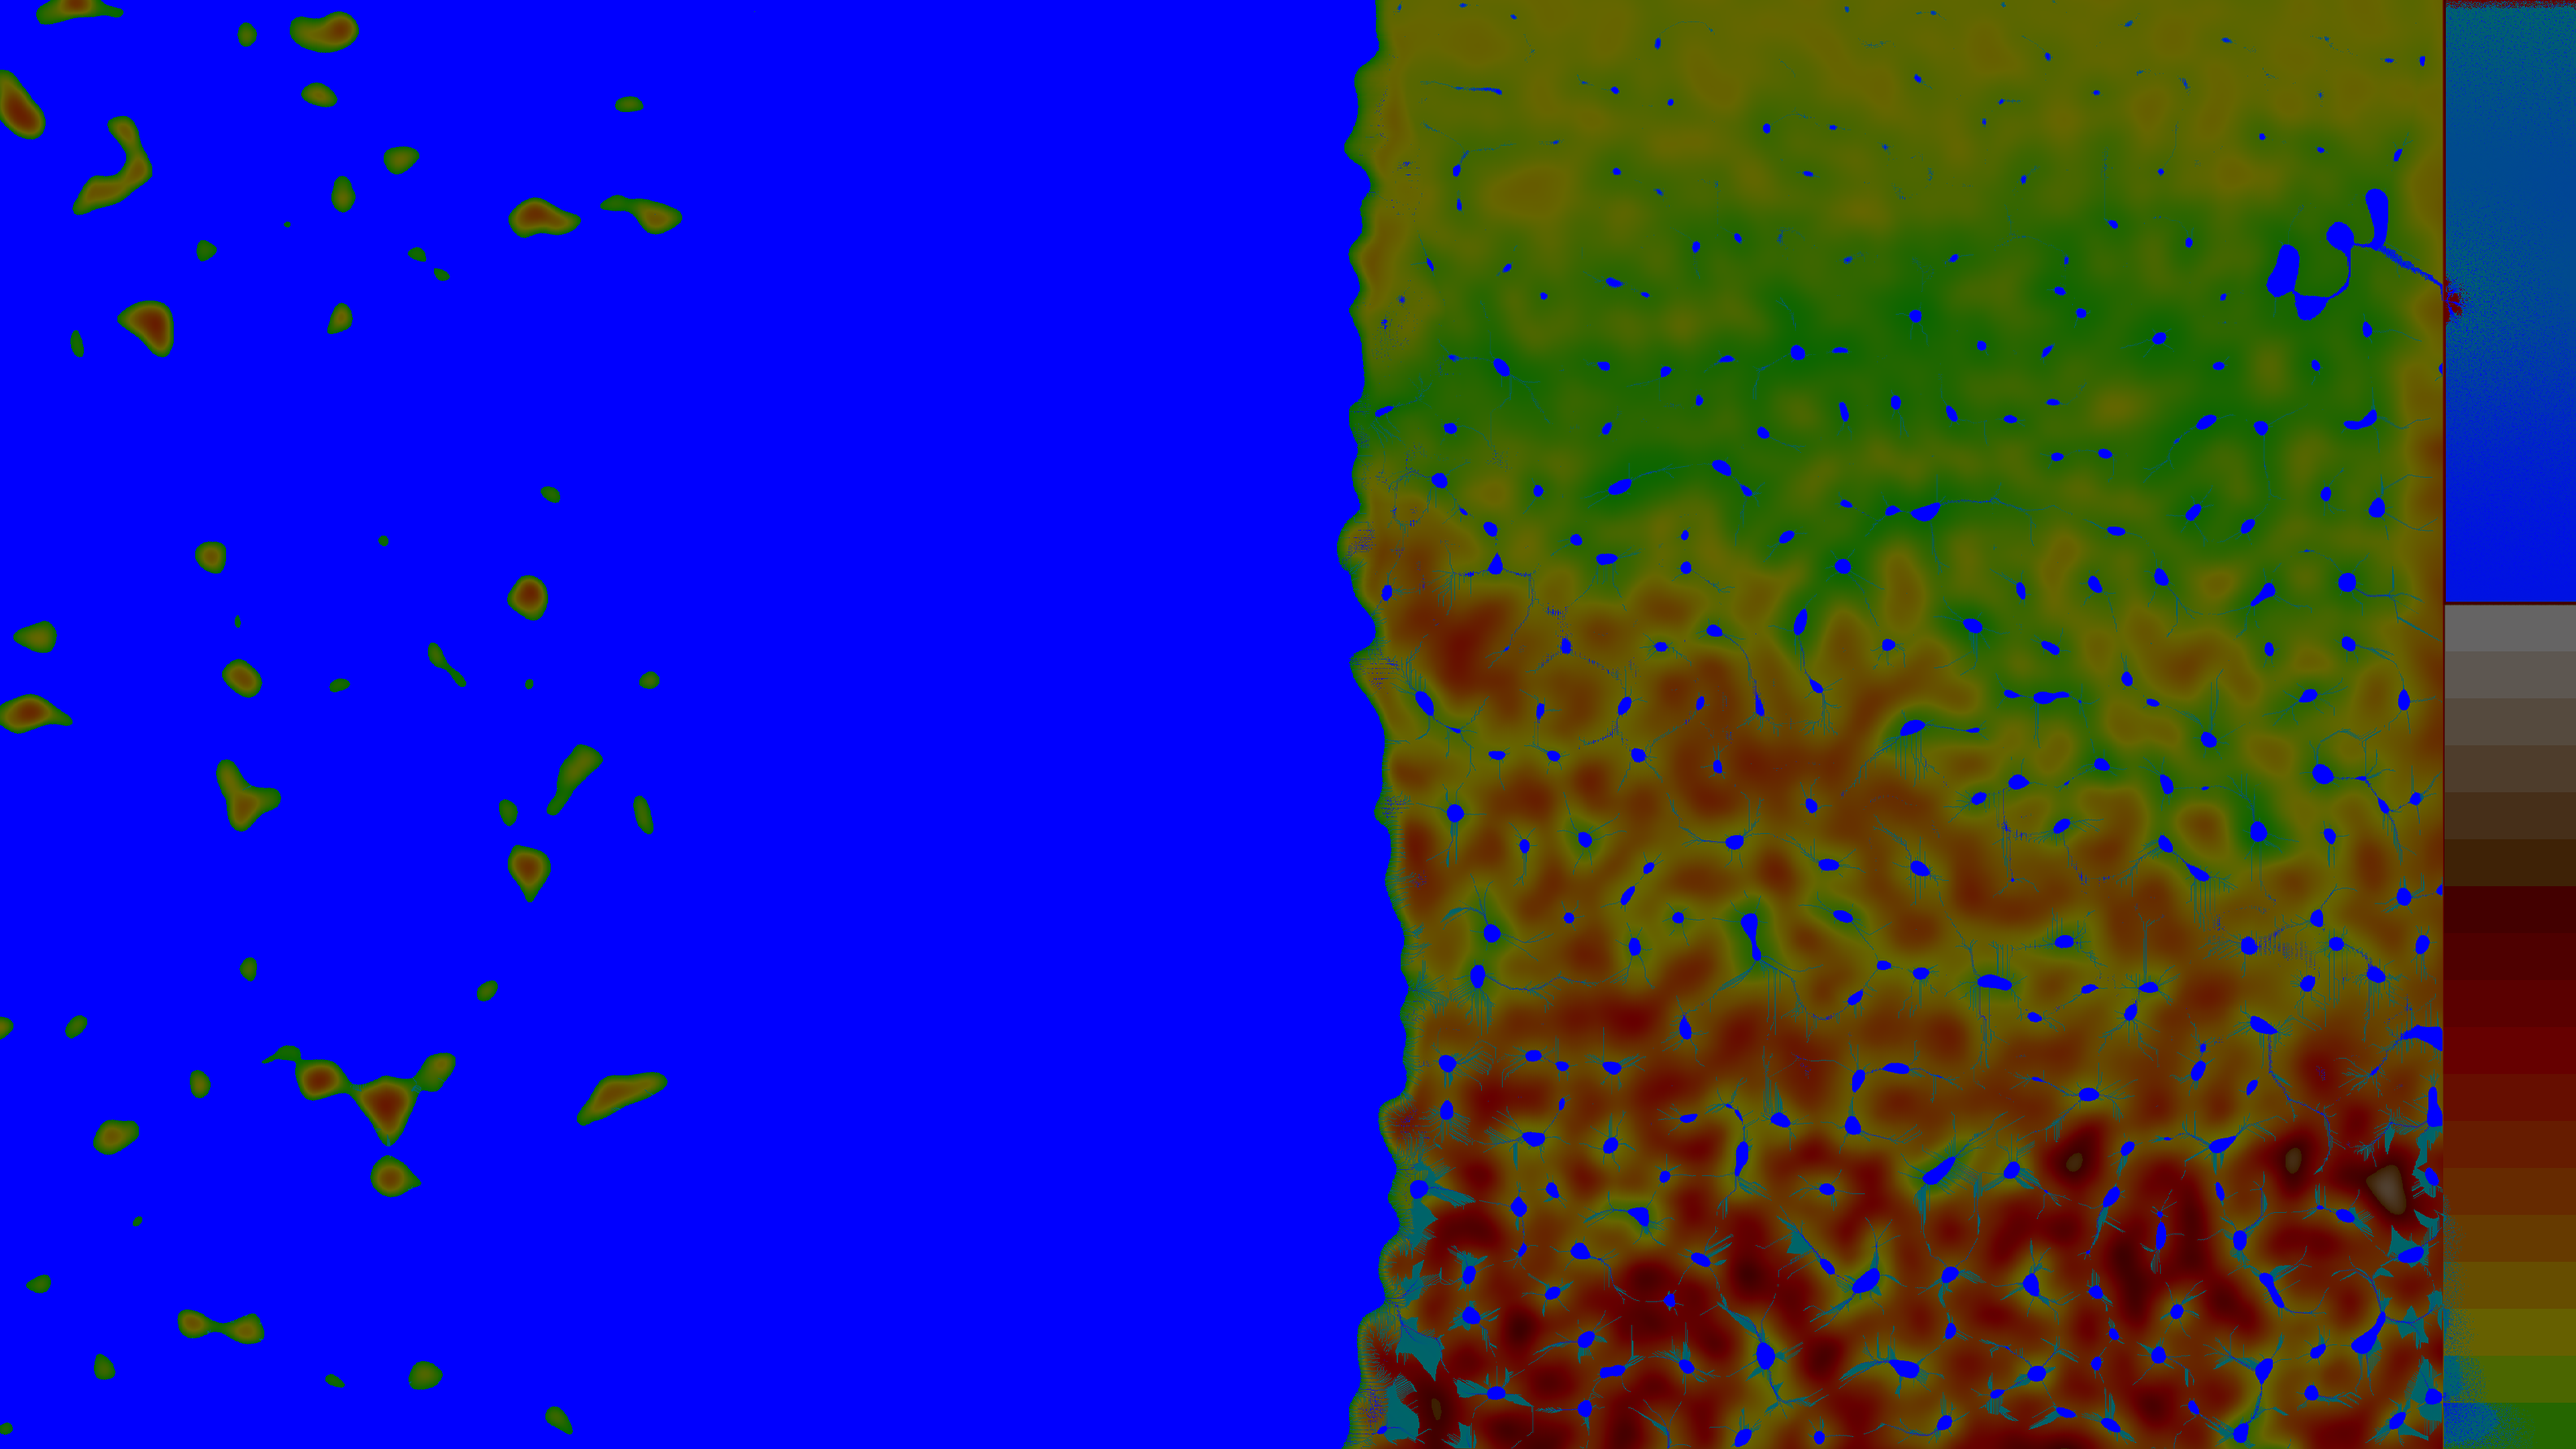
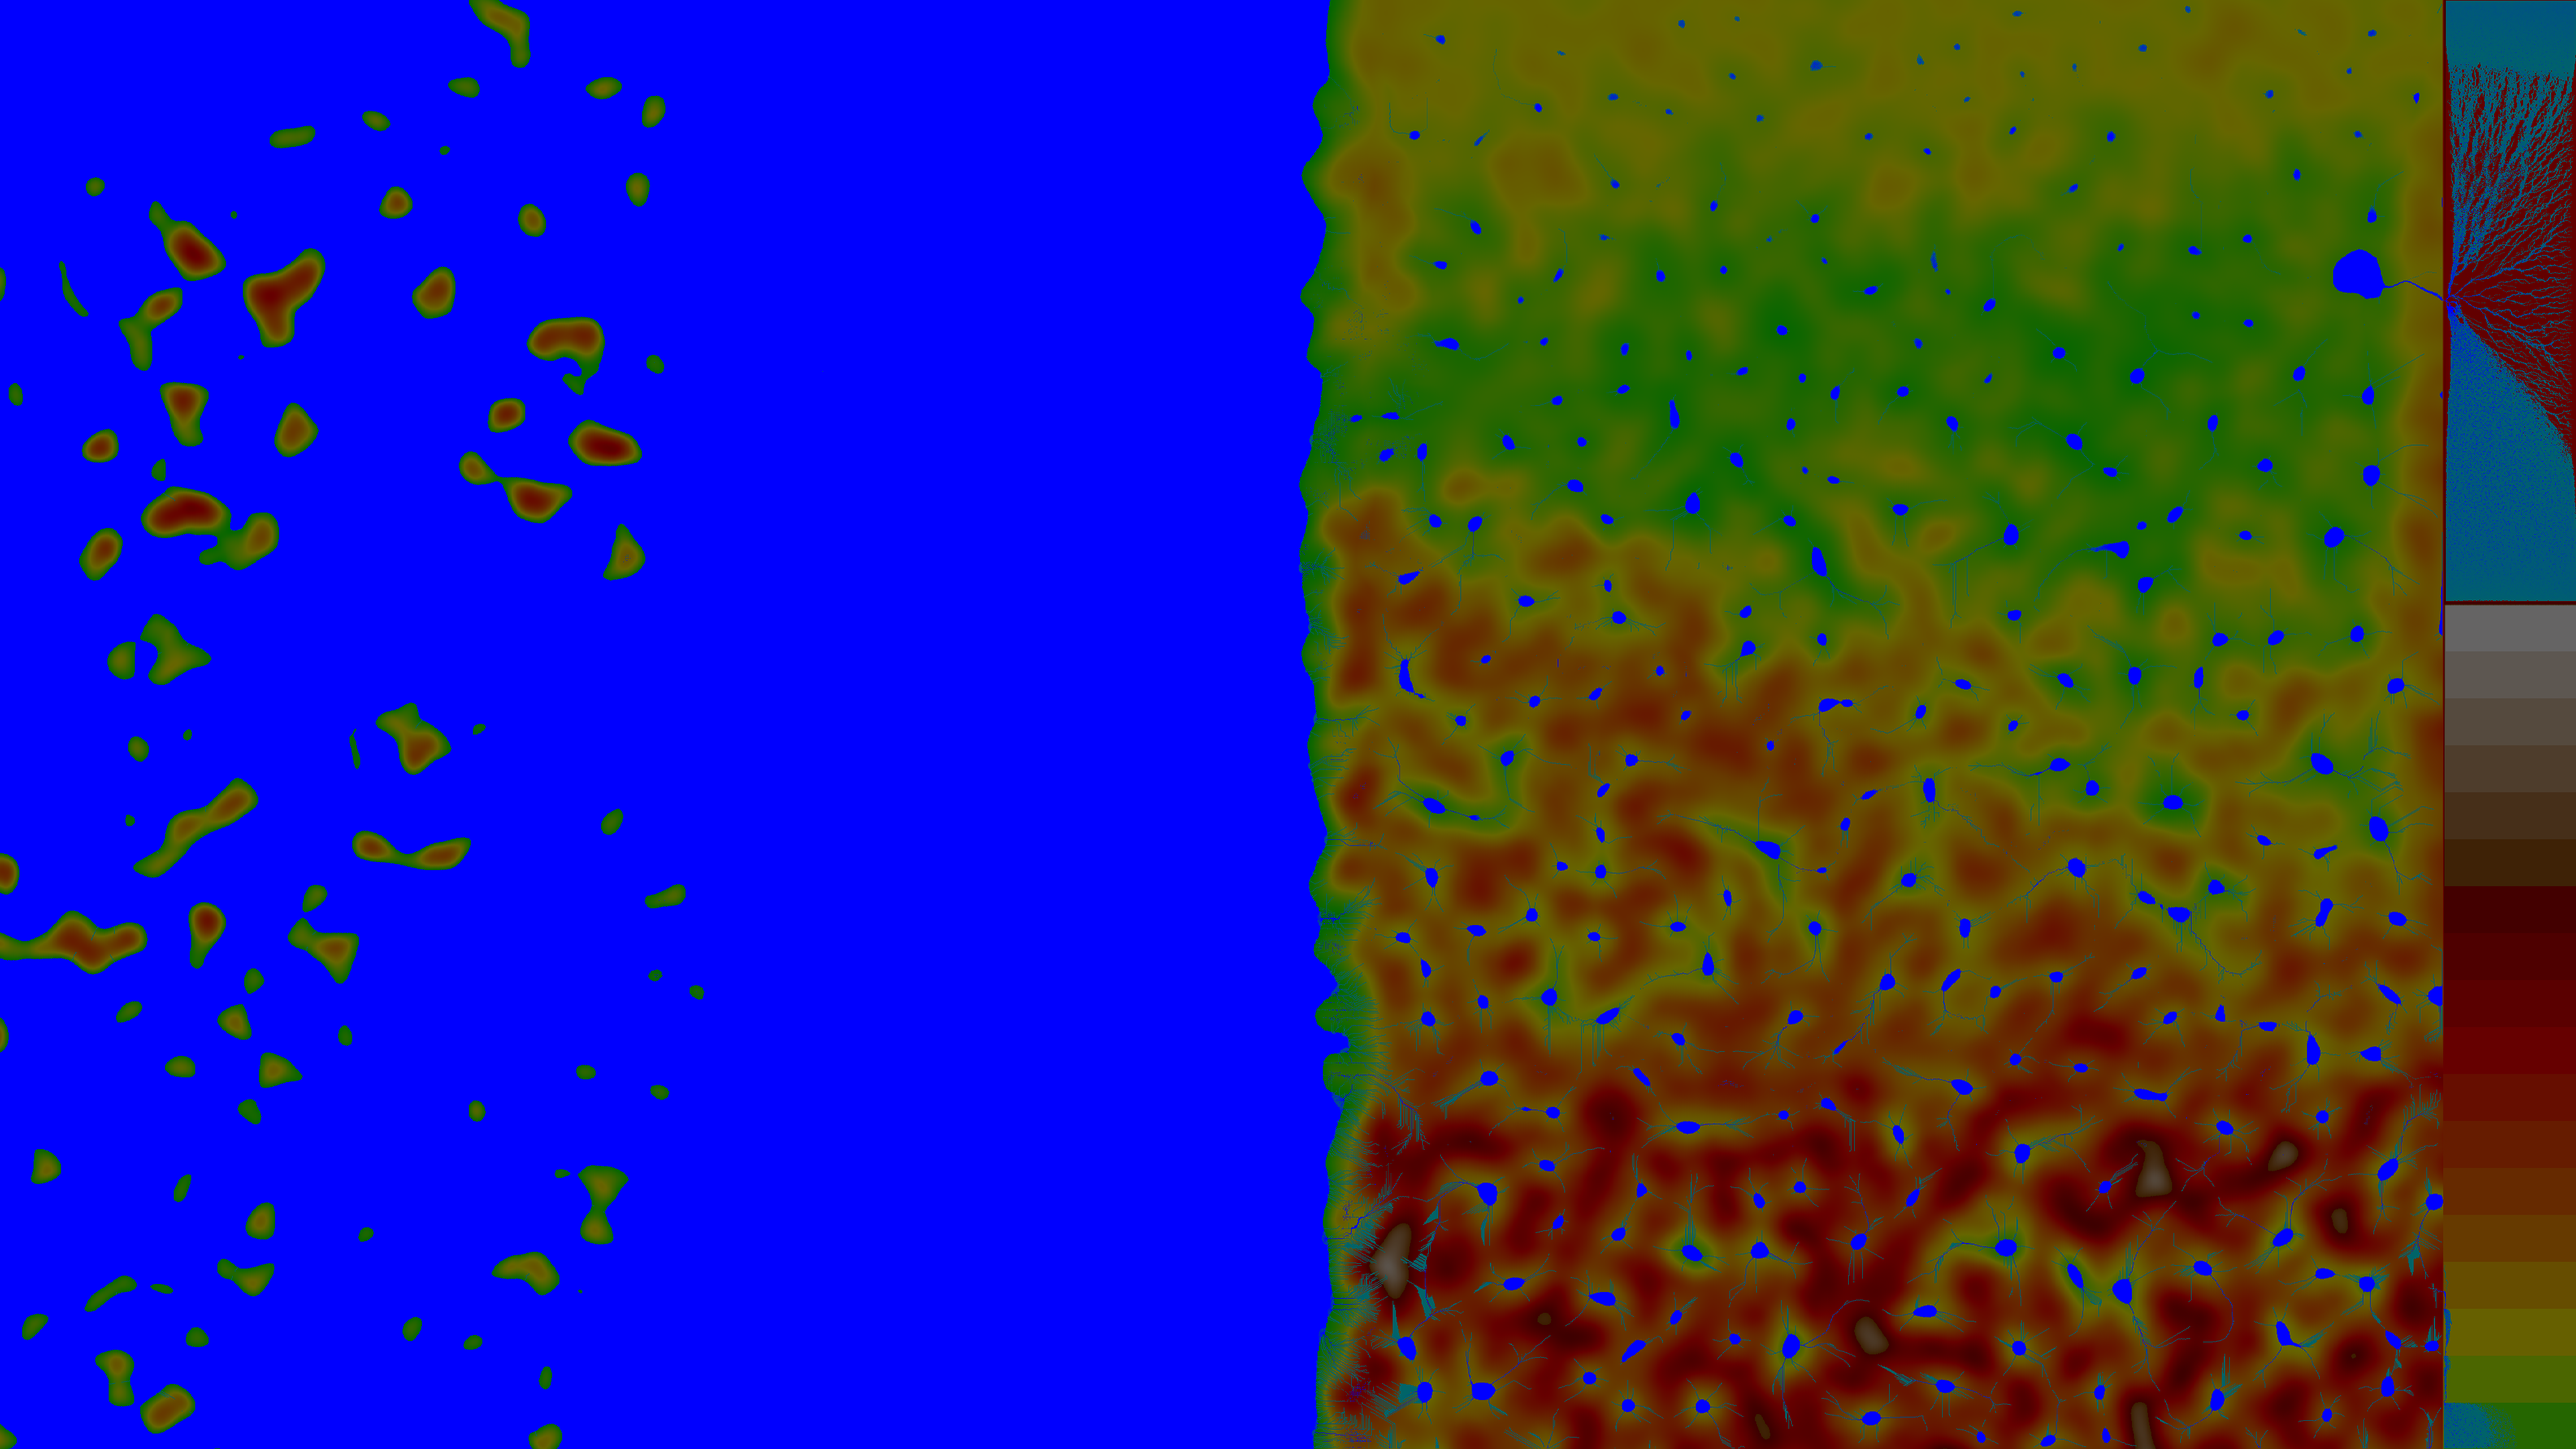
Wait no this is the most sensible erosion formula.

diff --git a/src/constants.rs b/src/constants.rs
@@ -59,15 +59,15 @@ pub const SOUTH_MOUNTAINS_MAX_ELEVATION: f32 = 16_900.0;
 pub const ISLANDS_MAX_ELEVATION: f32 = 11_200.0;
 pub const OUTLET_ELEVATION: f32 = 200.0;
 pub const BOUNDARY_ELEVATION: f32 = 2000.0;
-// pub const NE_BASIN_MIN_ELEVATION: f32 = NORTH_DESERT_WIDTH_MILES;
-pub const NE_BASIN_MIN_ELEVATION: f32 = BOUNDARY_ELEVATION;
+pub const NE_BASIN_MIN_ELEVATION: f32 = NORTH_DESERT_WIDTH_MILES;
+// pub const NE_BASIN_MIN_ELEVATION: f32 = BOUNDARY_ELEVATION;
 
 pub const KC: f32 = 1.5; // capacity coefficient
-pub const KE: f32 = 0.002; // erosion rate fraction
+pub const KE: f32 = 0.01; // erosion rate fraction
                          // Experimentally, a KD of 0.01 results in even filling of large lakes.
                          // Too high a value may result in water sloshing back and forth drilling
                          // pits in lakes, not sure where the limit is though.
-pub const KD: f32 = 0.002; // deposition rate fraction
+pub const KD: f32 = 0.01; // deposition rate fraction
 
 // Used to attempt to compensate for predictable loss of highest peaks over time.
 // 0.5 factor is targeted rise / run ratio of the highest peaks.
